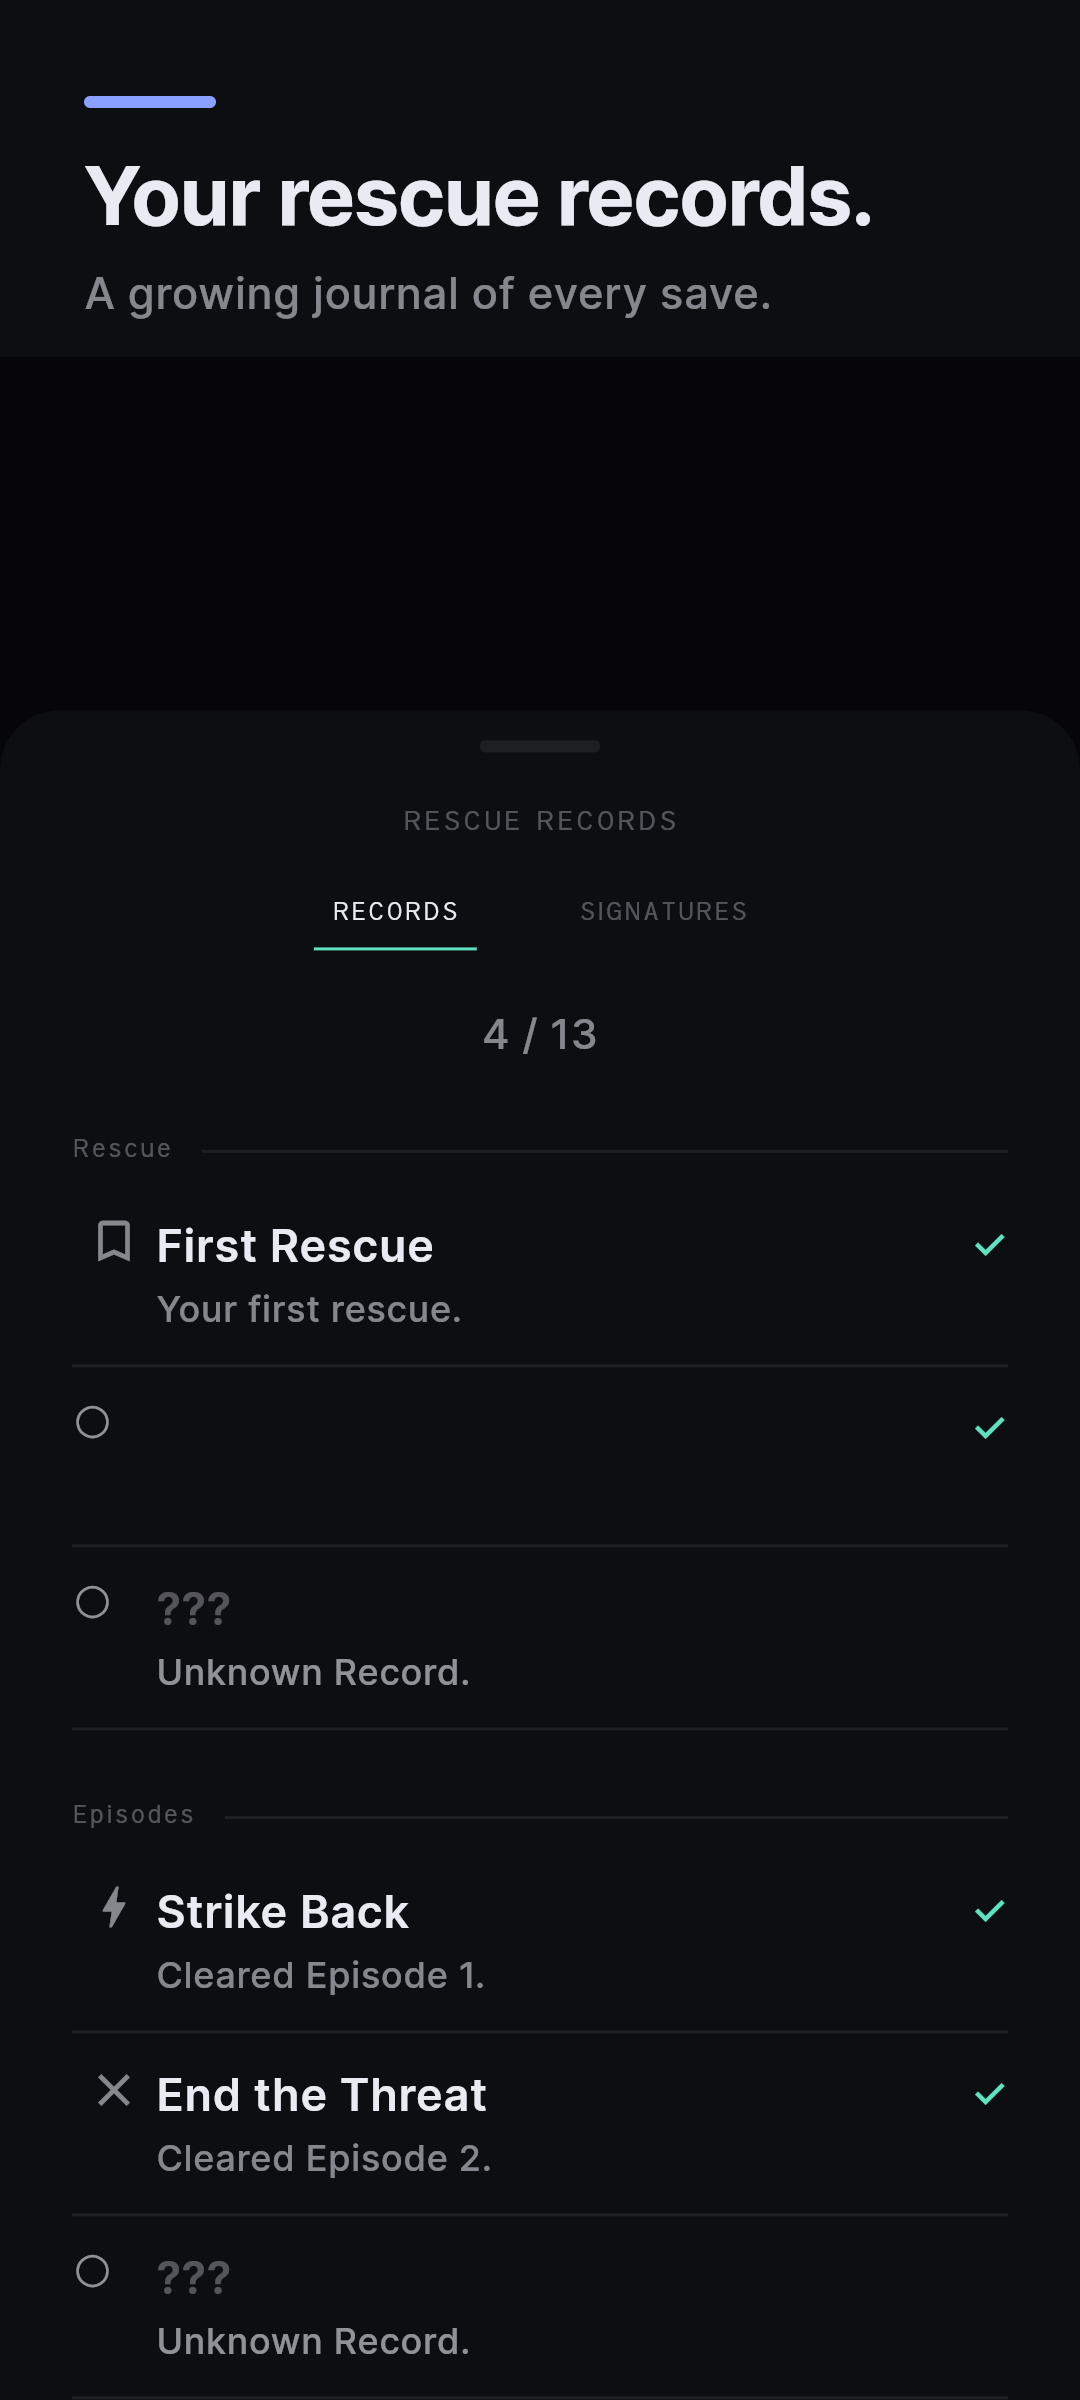
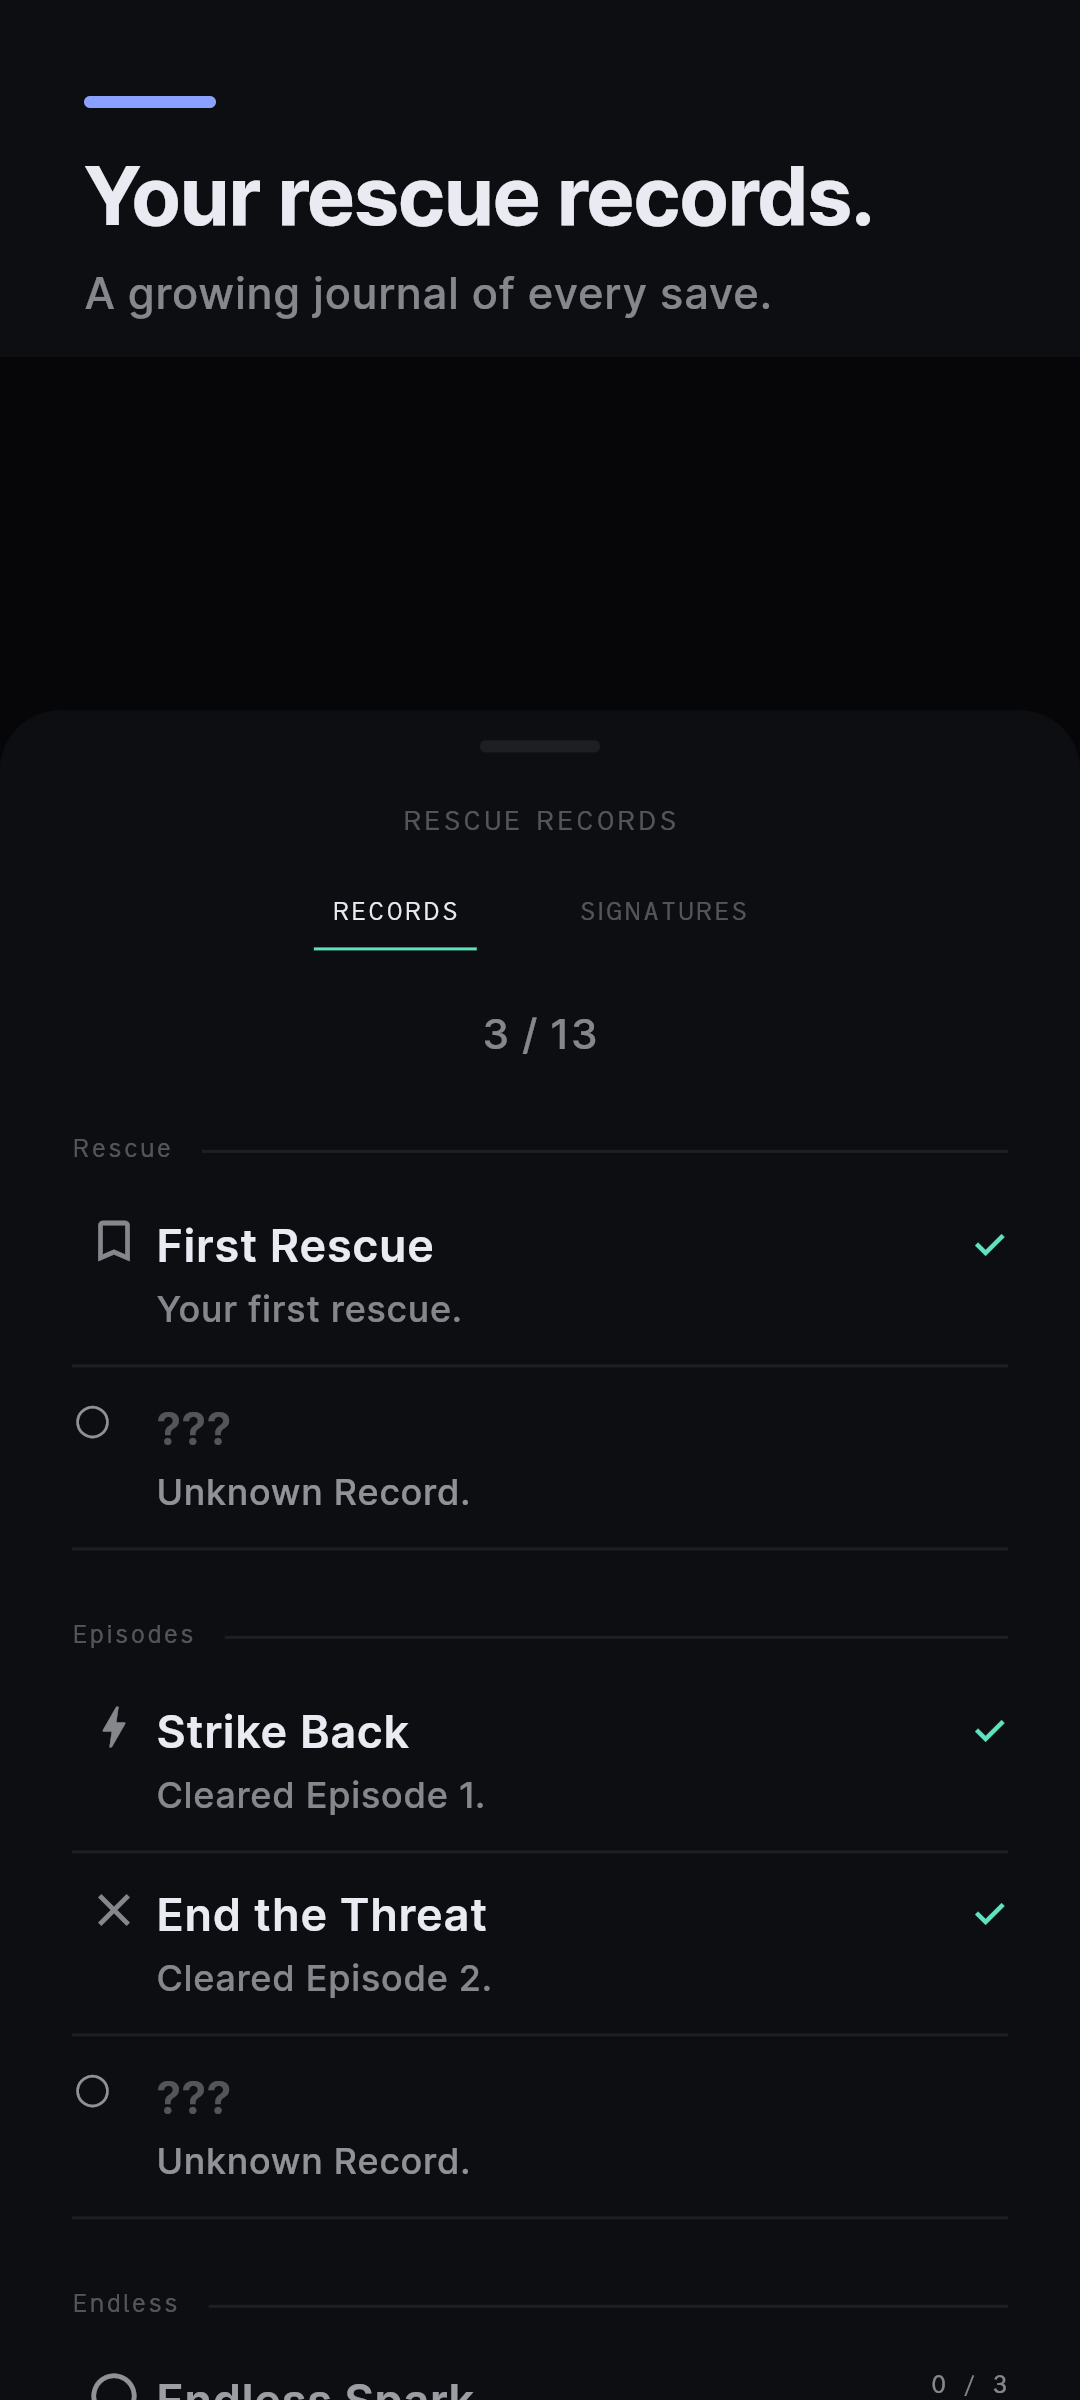
screenshot updated

diff --git a/lib/debug/screenshot_harness.dart b/lib/debug/screenshot_harness.dart
@@ -315,10 +315,12 @@ Future<_ShotPrep> _buildRecordsShot() async {
     'cr_intro_seen': true,
     'cr_onboarding_seen': true,
     // ProgressStore.unlockedRecords reads `cr_unlocked_records` as a JSON-
-    // encoded string (not a StringList), so seed it that way.
+    // encoded string (not a StringList), so seed it that way. `familiarGround`
+    // was dropped from the list because its title doesn't resolve in this
+    // seeded context (records-library/l10n mismatch, separate from the
+    // harness) and it rendered as a blank row in the captured PNG.
     'cr_unlocked_records': jsonEncode(<String>[
       'firstRescue',
-      'familiarGround',
       'ep1StrikeBack',
       'ep2EndTheThreat',
       'endlessSpark',
@@ -333,7 +335,10 @@ Future<_ShotPrep> _buildRecordsShot() async {
       'b3-remove-the-defender',
       'b4-the-cross-check',
     ],
-    'cr_lifetime_saved': 12,
+    // Lowered from 12 → 5 so the records evaluator does NOT auto-unlock
+    // `familiarGround` (threshold ≈ 10), which previously rendered as a
+    // blank row in the captured PNG due to a separate library/l10n bug.
+    'cr_lifetime_saved': 5,
   });
   return _ShotPrep(
     widget: ColoredBox(
